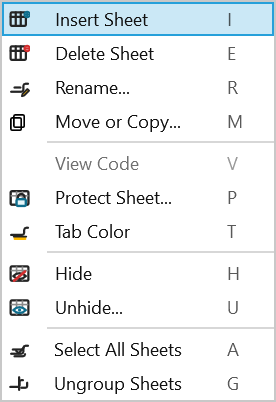
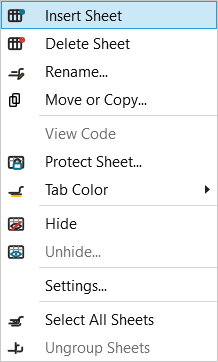
Refine sheet tab context menu chrome

diff --git a/src/FreeX.App.Host/MainWindow.SheetTabs.cs b/src/FreeX.App.Host/MainWindow.SheetTabs.cs
@@ -22,6 +22,7 @@ public partial class MainWindow
     private double _lastSheetTabViewportContentWidth;
     private bool _sheetTabViewportRefreshQueued;
     private SheetTabsChromeRenderKey? _lastSheetTabsChromeRenderKey;
+    private bool _isOpeningSheetTabContextMenuFromKeyboard;
 
     private void RefreshSheetTabs()
     {
@@ -1390,13 +1391,21 @@ public partial class MainWindow
                 return false;
         }
 
-        RebuildSheetTabContextMenu(contextMenu, target.DataContext as SheetTabViewModel);
-        MenuKeyTipAssigner.AssignUniqueKeyTips(contextMenu.Items.OfType<MenuItem>());
-        contextMenu.Opened -= SheetTabContextMenu_Opened;
-        contextMenu.Opened += SheetTabContextMenu_Opened;
-        contextMenu.PlacementTarget = target;
-        contextMenu.Placement = System.Windows.Controls.Primitives.PlacementMode.Bottom;
-        contextMenu.IsOpen = true;
+        _isOpeningSheetTabContextMenuFromKeyboard = true;
+        try
+        {
+            RebuildSheetTabContextMenu(contextMenu, target.DataContext as SheetTabViewModel);
+            MenuKeyTipAssigner.AssignUniqueKeyTips(contextMenu.Items.OfType<MenuItem>());
+            contextMenu.Opened -= SheetTabContextMenu_Opened;
+            contextMenu.Opened += SheetTabContextMenu_Opened;
+            contextMenu.PlacementTarget = target;
+            contextMenu.Placement = System.Windows.Controls.Primitives.PlacementMode.Bottom;
+            contextMenu.IsOpen = true;
+        }
+        finally
+        {
+            _isOpeningSheetTabContextMenuFromKeyboard = false;
+        }
         return true;
     }
 
@@ -1467,6 +1476,17 @@ public partial class MainWindow
             }
             AddSheetTabContextMenuItem(menu.Items, command);
         }
+
+        if (!_isOpeningSheetTabContextMenuFromKeyboard)
+            HideSheetTabContextMenuInputGestures(menu);
+    }
+
+    // Mouse-opened context menus should use the same quiet, command-first chrome as Excel.
+    // Keyboard opening immediately reapplies the key tips in TryOpenFocusedSheetTabContextMenu.
+    private static void HideSheetTabContextMenuInputGestures(ContextMenu menu)
+    {
+        foreach (var item in menu.Items.OfType<MenuItem>())
+            item.InputGestureText = string.Empty;
     }
 
     // freex-subtotals-outline-F2: WPF host mirror of the Avalonia shell's "Outline Settings..." sheet-tab

diff --git a/tests/FreeX.App.Host.Tests/MainWindowSheetTabKeyboardTests.cs b/tests/FreeX.App.Host.Tests/MainWindowSheetTabKeyboardTests.cs
@@ -620,6 +620,8 @@ public sealed class MainWindowSheetTabKeyboardTests
         source.Should().Contain("private void SheetTabChrome_ContextMenuOpening(object sender, ContextMenuEventArgs e)");
         source.Should().Contain("private void RebuildSheetTabContextMenu(ContextMenu menu, SheetTabViewModel? tab)");
         source.Should().Contain("SheetTabContextMenuPlanner.BuildSheetTabCommands(state)");
+        source.Should().Contain("HideSheetTabContextMenuInputGestures(menu);");
+        source.Should().Contain("item.InputGestureText = string.Empty;");
         source.Should().Contain("private SheetTabContextMenuState BuildSheetTabContextMenuState(SheetTabViewModel? tab)");
         source.Should().Contain("CanUnhideSheet: hiddenSheetCount > 0");
         source.Should().Contain("CanUngroupSheets: _groupedSheetIds.Count > 1");

diff --git a/tools/FreeX.ParityCapture.Wpf/Capture/MainWindow.ScreenshotTour.cs b/tools/FreeX.ParityCapture.Wpf/Capture/MainWindow.ScreenshotTour.cs
@@ -13652,7 +13652,6 @@ public partial class MainWindow
 
         try
         {
-            MenuKeyTipAssigner.AssignUniqueKeyTips(menu.Items.OfType<MenuItem>());
             menu.PlacementTarget = target;
             menu.Placement = PlacementMode.Bottom;
             menu.IsOpen = true;
